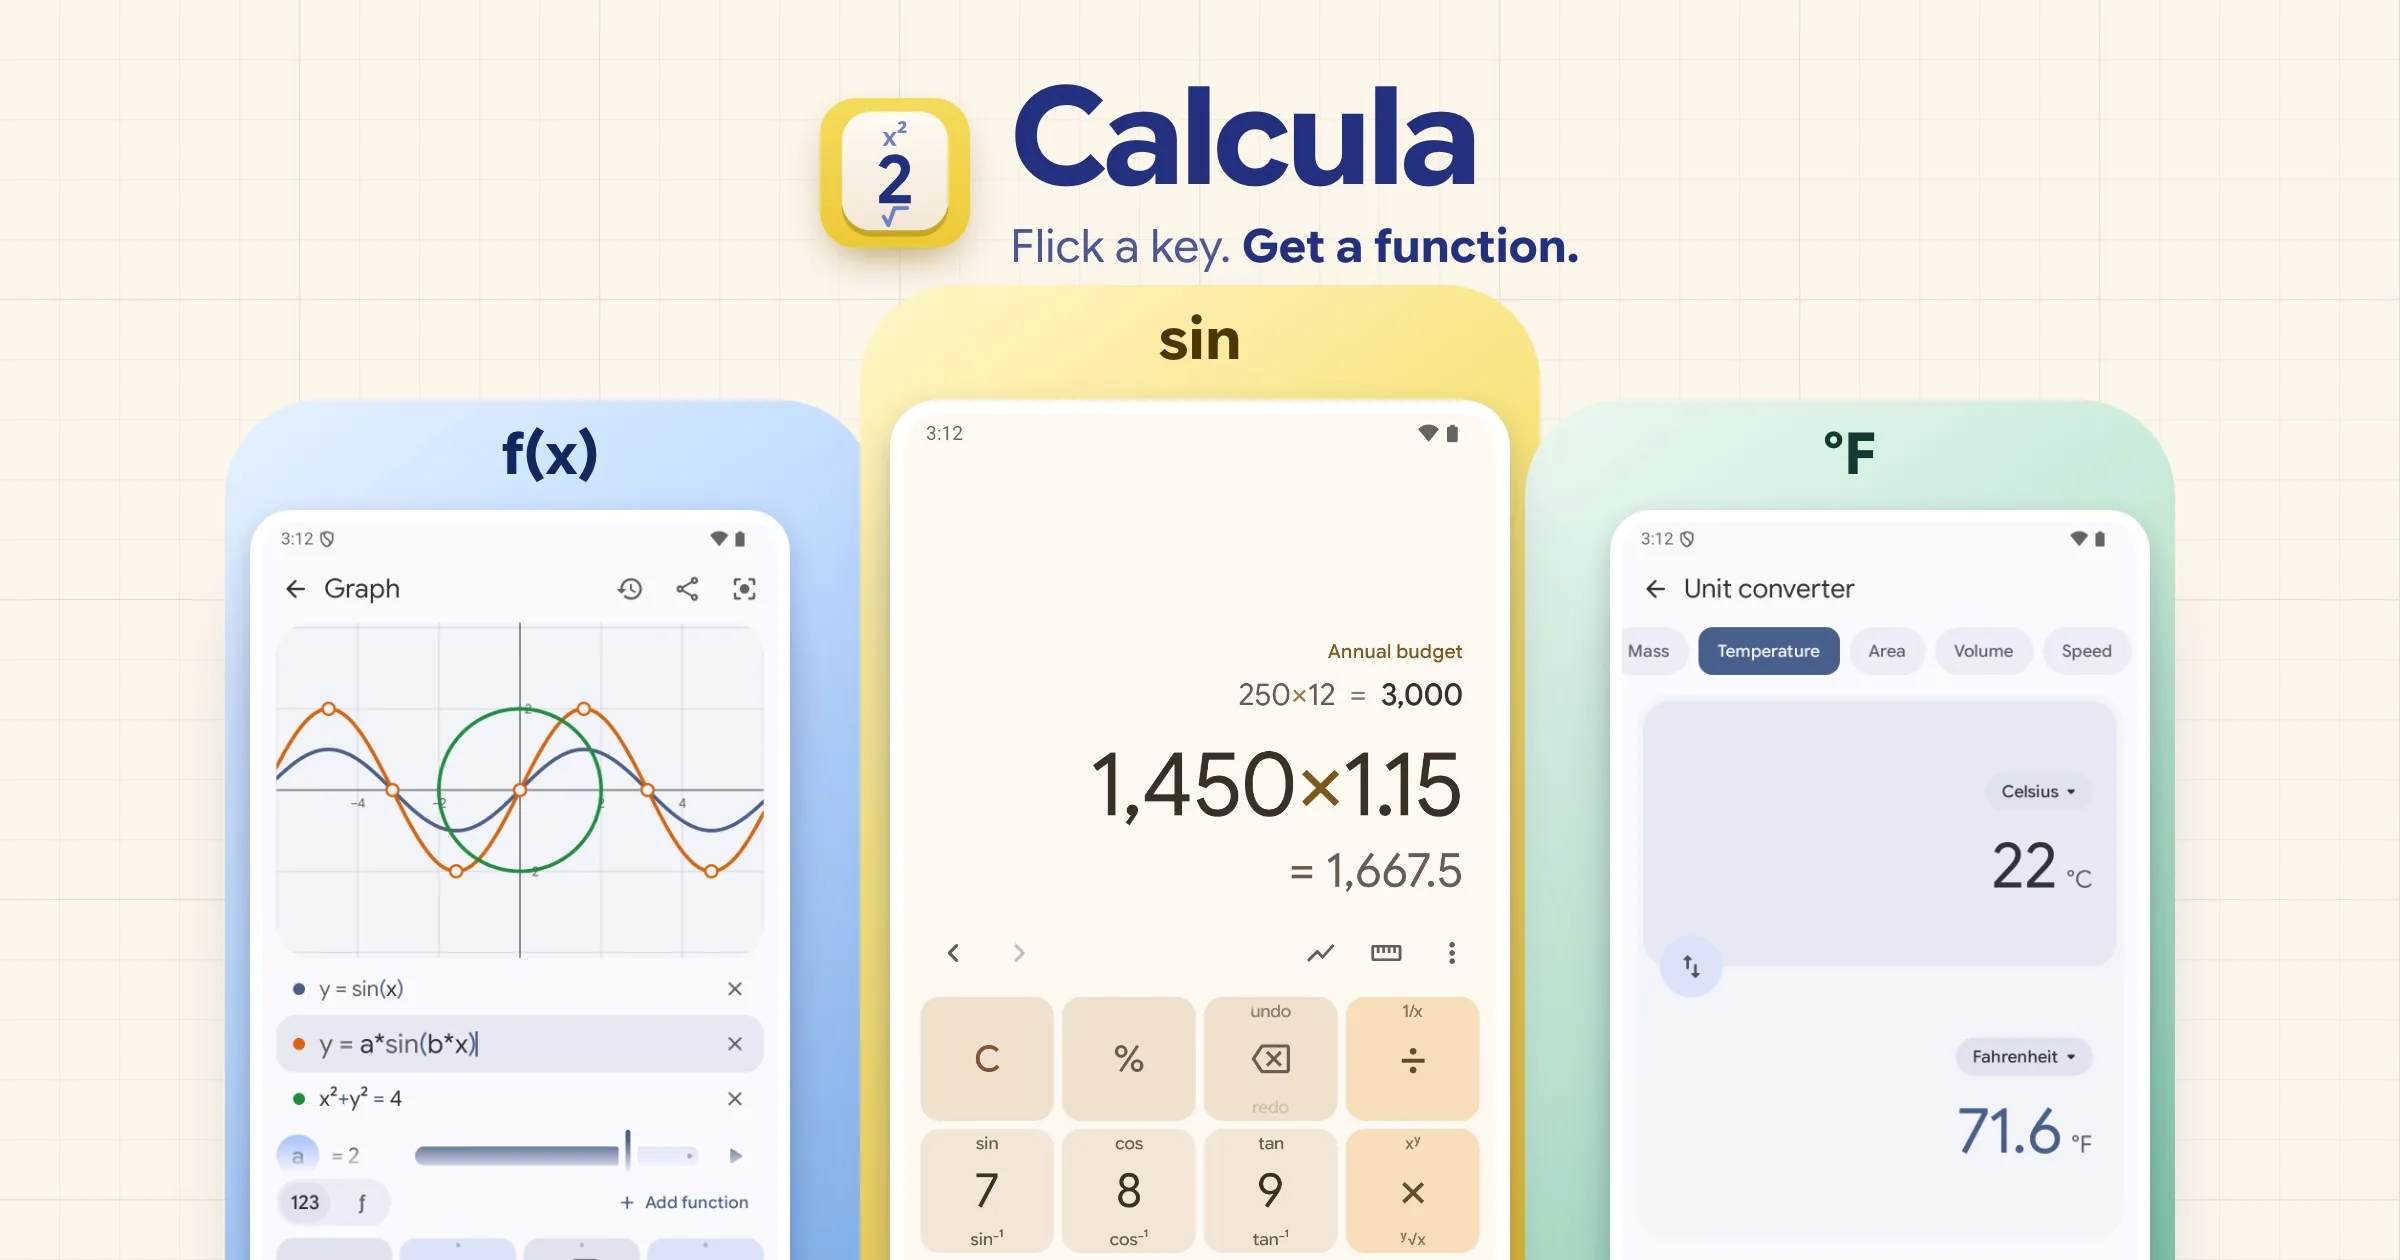
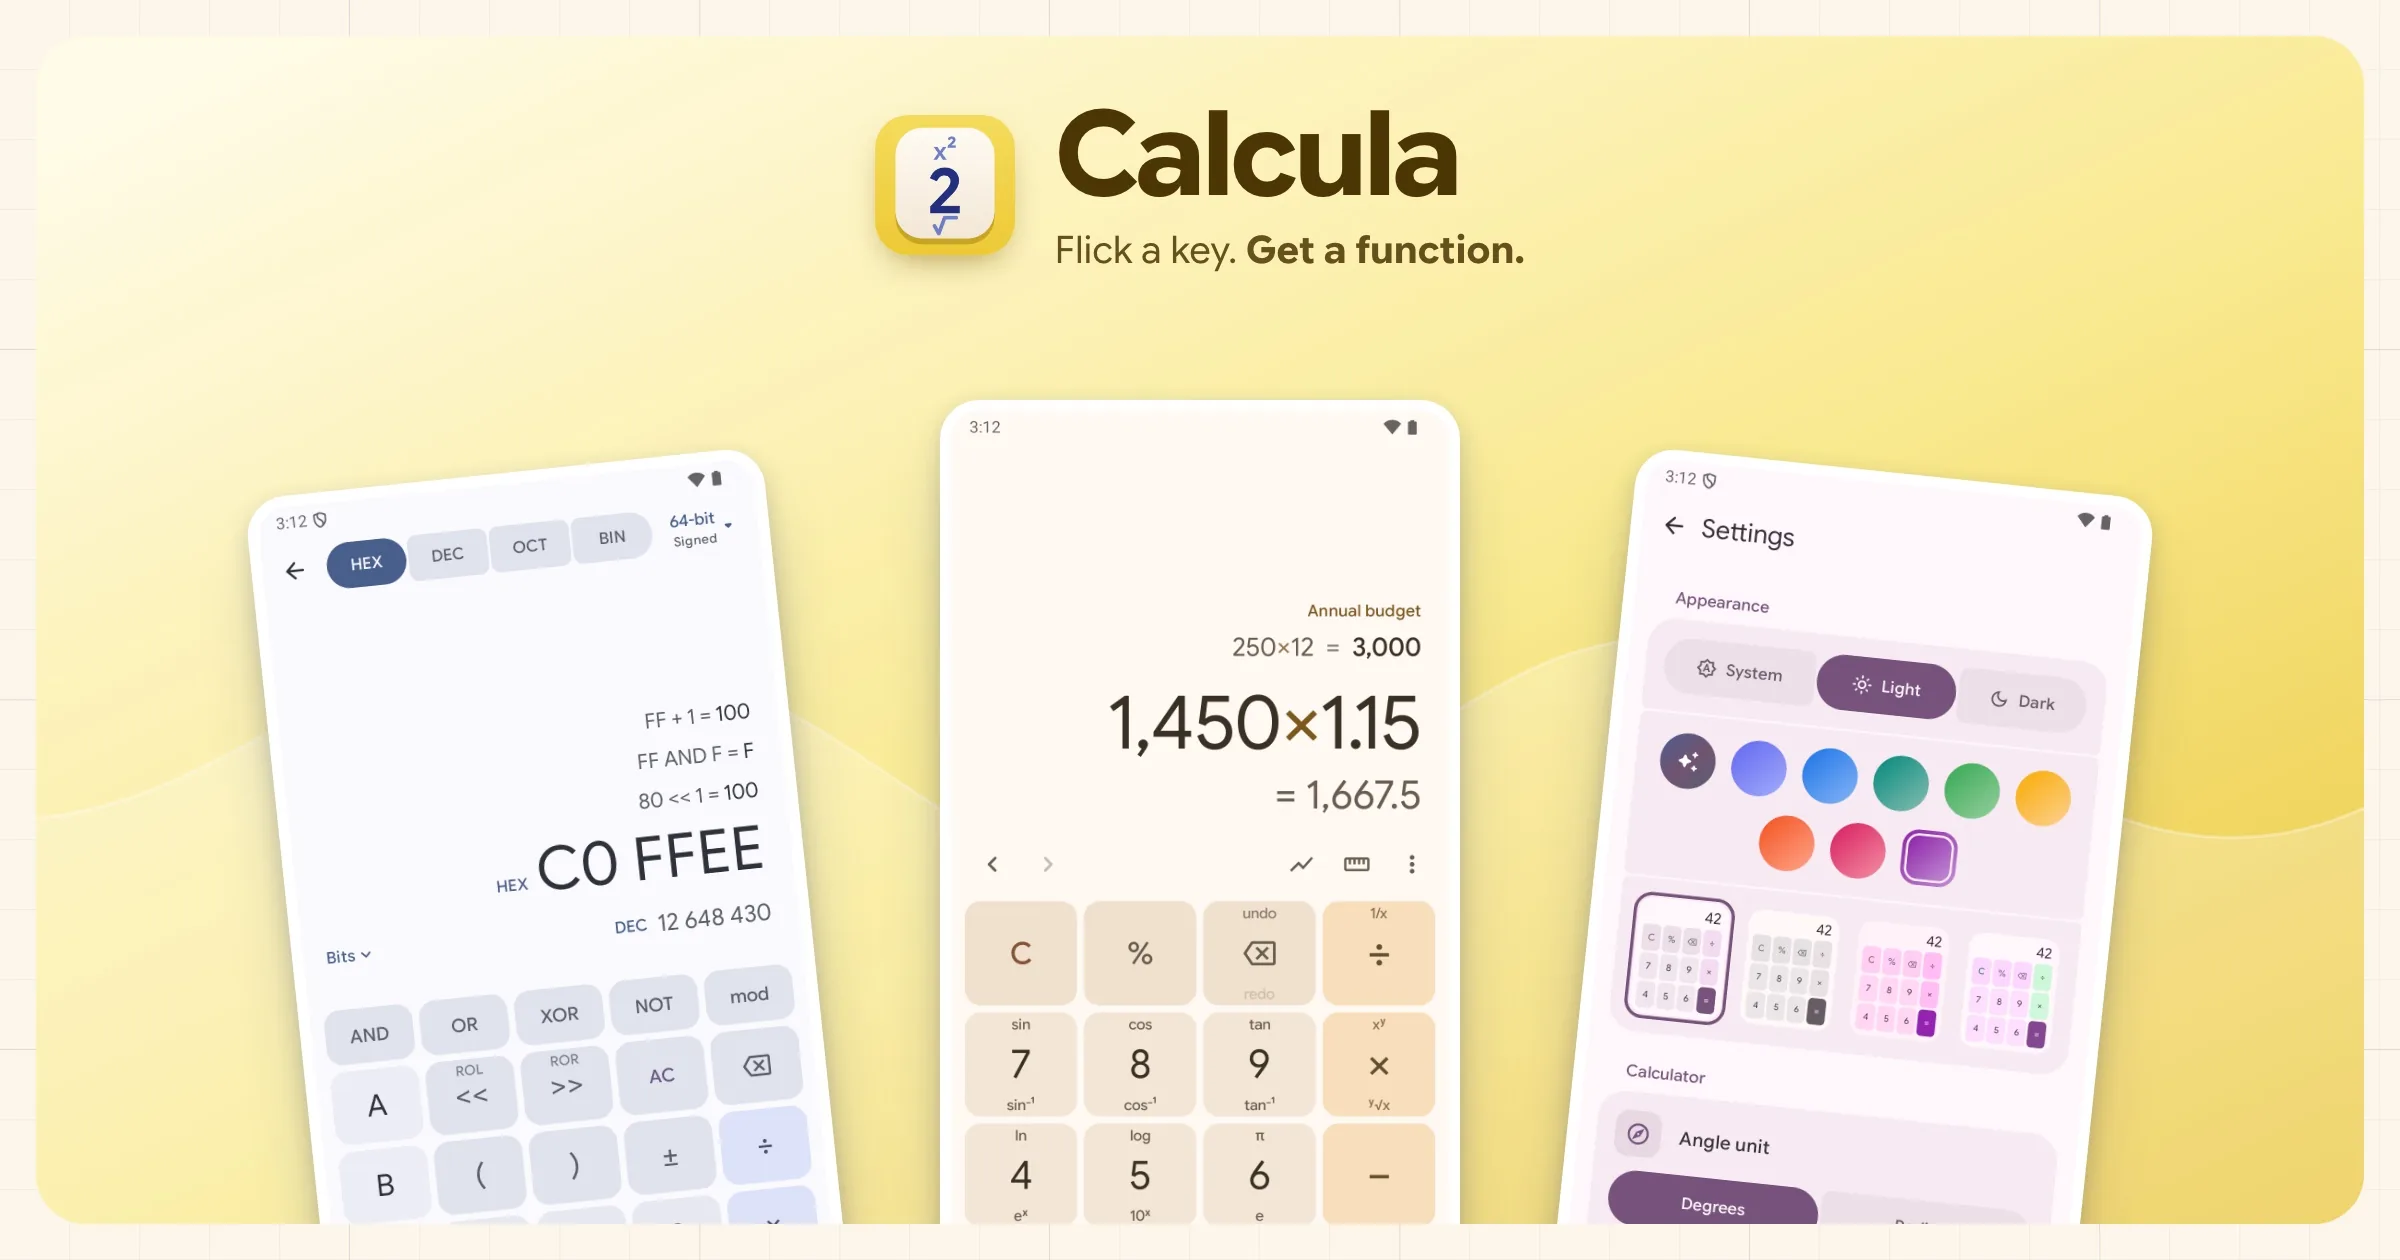
Calcula header: programmer, keypad and themes

diff --git a/lib/apps.ts b/lib/apps.ts
@@ -115,7 +115,7 @@ export const apps: AppData[] = [
     images: [
       {
         file: "hero",
-        alt: "Calcula's graph, keypad and unit converter each standing on a Calcula key labelled f(x), sin and °F",
+        alt: "Programmer mode in hex, the keypad with a function on every key, and the color themes",
       },
       {
         file: "tools",
